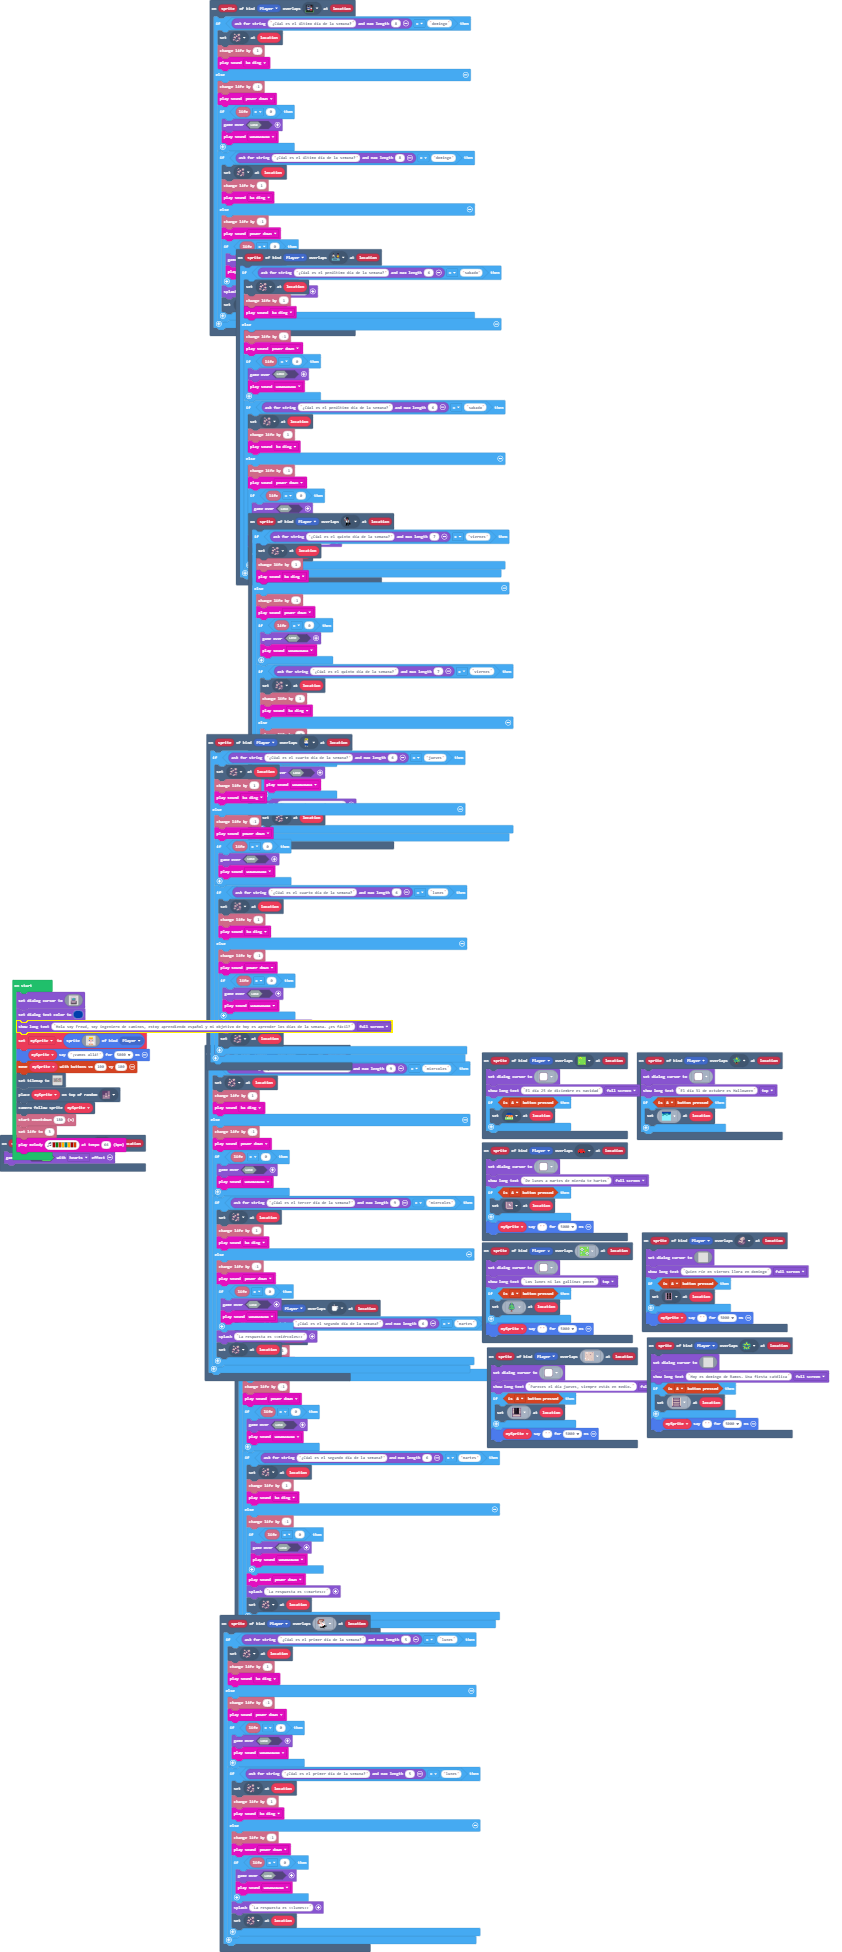
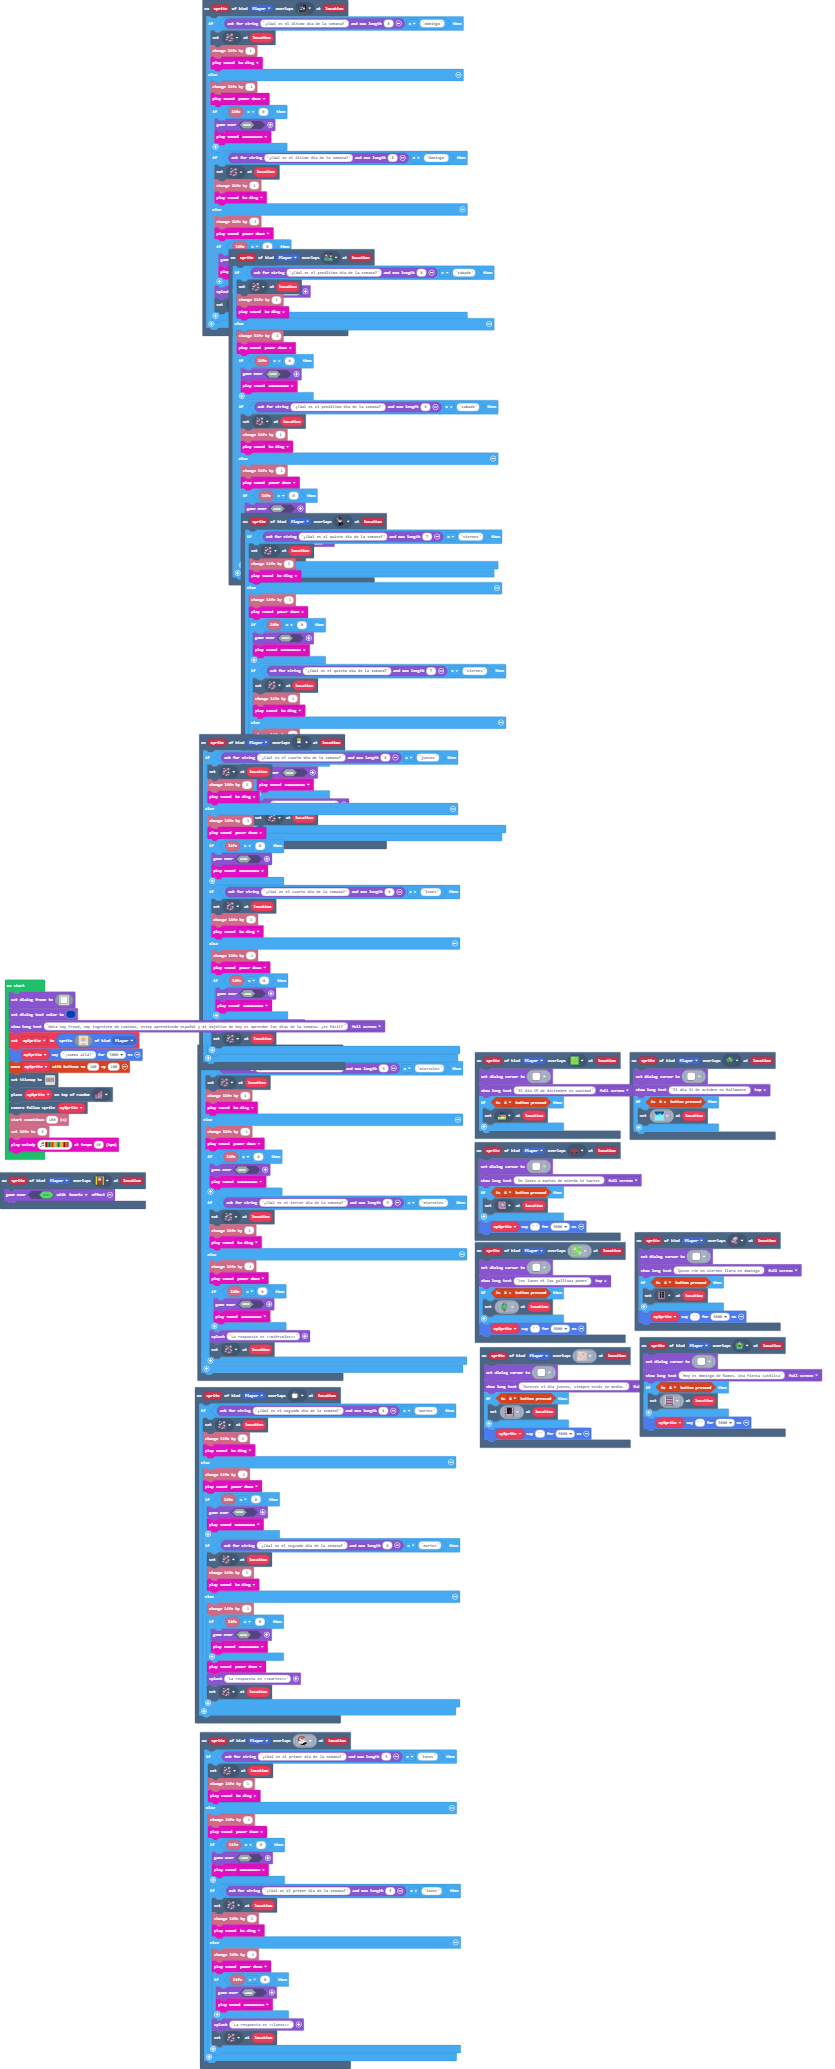
Update main.blocks, main.ts

Changed region(s): [[0.0, 0.0, 0.9964, 1.0]]

diff --git a/main.ts b/main.ts
@@ -2,24 +2,7 @@ scene.onOverlapTile(SpriteKind.Player, myTiles.tile2, function (sprite, location
     game.over(true, effects.hearts)
 })
 scene.onOverlapTile(SpriteKind.Player, sprites.castle.rock1, function (sprite, location) {
-    game.setDialogCursor(img`
-        . . . . . . . . . . . . . . . . 
-        . . . . . . . . . . . . . . . . 
-        . . . . . . . . . . . . . . . . 
-        . . . . . . . . . . . . . . . . 
-        . . . . . . . . . . . . . . . . 
-        . . . . . . . . . . . . . . . . 
-        . . . . . . . . . . . . . . . . 
-        . . . . . . . . . . . . . . . . 
-        . . . . . . . . . . . . . . . . 
-        . . . . . . . . . . . . . . . . 
-        . . . . . . . . . . . . . . . . 
-        . . . . . . . . . . . . . . . . 
-        . . . . . . . . . . . . . . . . 
-        . . . . . . . . . . . . . . . . 
-        . . . . . . . . . . . . . . . . 
-        . . . . . . . . . . . . . . . . 
-        `)
+    game.setDialogCursor(sprites.dialog.smallDialogLeftThin)
     game.showLongText("Quien ríe en viernes llora en domingo", DialogLayout.Full)
     if (controller.A.isPressed()) {
         tiles.setTileAt(location, myTiles.tile7)
@@ -90,24 +73,7 @@ scene.onOverlapTile(SpriteKind.Player, sprites.castle.saplingPine, function (spr
     }
 })
 scene.onOverlapTile(SpriteKind.Player, sprites.castle.shrub, function (sprite, location) {
-    game.setDialogCursor(img`
-        . . . . . . . . . . . . . . . . 
-        . . . . . . . . . . . . . . . . 
-        . . . . . . . . . . . . . . . . 
-        . . . . . . . . . . . . . . . . 
-        . . . . . . . . . . . . . . . . 
-        . . . . . . . . . . . . . . . . 
-        . . . . . . . . . . . . . . . . 
-        . . . . . . . . . . . . . . . . 
-        . . . . . . . . . . . . . . . . 
-        . . . . . . . . . . . . . . . . 
-        . . . . . . . . . . . . . . . . 
-        . . . . . . . . . . . . . . . . 
-        . . . . . . . . . . . . . . . . 
-        . . . . . . . . . . . . . . . . 
-        . . . . . . . . . . . . . . . . 
-        . . . . . . . . . . . . . . . . 
-        `)
+    game.setDialogCursor(sprites.dialog.smallDialogLeftThin)
     game.showLongText("Hoy es domingo de Ramos. Una fiesta católica", DialogLayout.Full)
     if (controller.A.isPressed()) {
         tiles.setTileAt(location, sprites.dungeon.stairNorth)
@@ -286,29 +252,31 @@ scene.onOverlapTile(SpriteKind.Player, myTiles.transparency16, function (sprite,
     }
 })
 let mySprite: Sprite = null
-game.setDialogCursor(img`
-    ...bbbbbbbbbb...
-    ..b1111111111b..
-    .b111111111111b.
-    .b111111111111b.
-    .bddccccccccddb.
-    .bdc66666666cdb.
-    .bdc61d66666cdb.
-    .bdc6d666666cdb.
-    .bdc66666666cdb.
-    .bdc66666666cdb.
-    .bdc66666666cdb.
-    .bddccccccccddb.
-    .cbbbbbbbbbbbbc.
-    fccccccccccccccf
-    fbbbbbbbbbbbbbbf
-    fbcdddddddddddbf
-    fbcbbbbbbbbbbcbf
-    fbcbbbbbbbbbbcbf
-    fbccccccccccccbf
-    fbbbbbbbbbbbbbbf
-    fbffffffffffffbf
-    ffffffffffffffff
+game.setDialogFrame(img`
+    .....cccccccccccccc.....
+    ...cbd111111111111dbc...
+    ..cd1111111111111111dc..
+    .cd111111111111111111dc.
+    .b11111111111111111111b.
+    cd11111111111111111111dc
+    c1111111111111111111111c
+    c1111111111111111111111c
+    c1111111111111111111111c
+    c1111111111111111111111c
+    c1111111111111111111111c
+    c1111111111111111111111c
+    c1111111111111111111111c
+    c1111111111111111111111c
+    c1111111111111111111111c
+    c1111111111111111111111c
+    c1111111111111111111111c
+    cd11111111111111111111dc
+    .b11111111111111111111b.
+    .cd111111111111111111dc.
+    ..cd1111111111111111dc..
+    ..b11d111111111111dbc...
+    .b11bcccccccccccccc.....
+    ccccc...................
     `)
 game.setDialogTextColor(8)
 game.showLongText("Hola soy Freud, soy ingeniero de caminos, estoy aprendiendo español y mi objetivo de hoy es aprender los días de la semana. ¿es fácil?", DialogLayout.Full)
